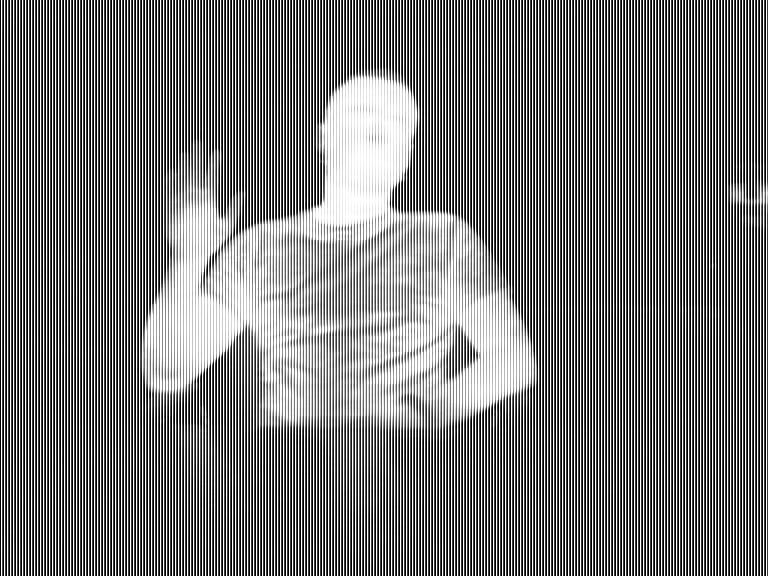
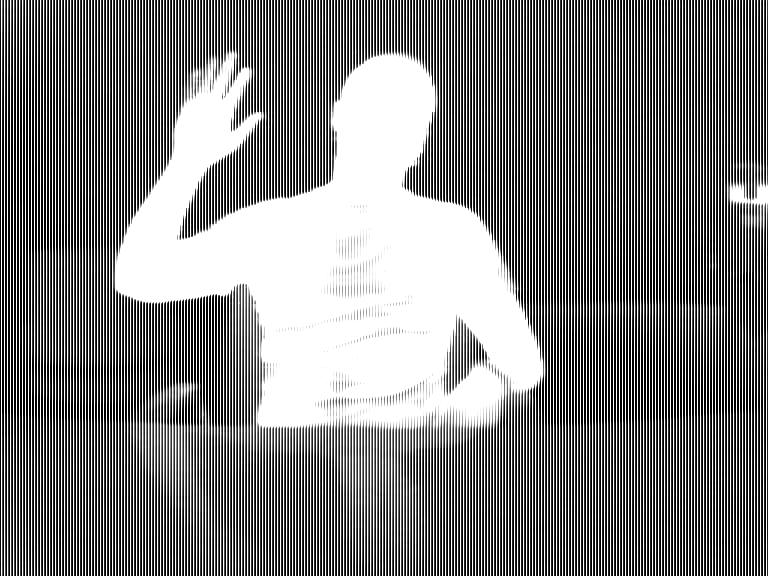
flc input data gathered

diff --git a/image processing/human_seg.py b/image processing/human_seg.py
@@ -15,6 +15,11 @@ def segment_histo(image_path, colour1, colour2):
     cmap_custom = LinearSegmentedColormap.from_list('mycmap', [colour1, colour2])
     final_seg = image_hed[:, :, 0]
 
+    fig, image_original = plt.subplots(figsize=(4, 3))
+    image_original.imshow(image)
+    image_original.set_title('Original Image')
+    image_original.axis('off')
+
     fig, human_seperation = plt.subplots(figsize=(4, 3))
     human_seperation.imshow(final_seg, cmap=cmap_custom)
     human_seperation.set_title('colour deconvolution')
@@ -28,9 +33,9 @@ def segment_histo(image_path, colour1, colour2):
 
     #plotting the histogram and cummulative histogram across each colour channel
     for c, c_color in enumerate(('red', 'green', 'blue')):
-        img_hist, bins = exposure.histogram(final_seg_rgb[..., c])
+        img_hist, bins = exposure.histogram(image[..., c])
         rgb_histo[c].plot(bins, img_hist / img_hist.max())
-        img_cdf, bins = exposure.cumulative_distribution(final_seg_rgb[..., c])
+        img_cdf, bins = exposure.cumulative_distribution(image[..., c])
         rgb_histo[c].plot(bins, img_cdf)
         rgb_histo[c].set_ylabel(c_color) 
 
@@ -40,7 +45,8 @@ def segment_histo(image_path, colour1, colour2):
     #massive precision loss look into conservation
     io.imsave('./images/' + image_path[9:17] + '_seg.jpg', final_seg_rgb)
     
-    print(final_seg.min(), final_seg.max())  
+    print(image.min(), image.max())  
+    print(image.mean())
     return human_seperation, final_seg, rgb_histo
 
 def infra_histogram(image):
@@ -55,6 +61,6 @@ def infra_histogram(image):
 
     return rgb_histo
 
-image_seg = segment_histo('./images/hot/alexrainbow.jpg', 'white', 'green')
+image_seg = segment_histo('./images/hot/siorainbow.jpg', 'white', 'green')
 
 plt.show()

diff --git a/fuzzyLogic/Juzzy/Project/Juzzy_V2_Source/src/radiatorFLC/thermalRadiatorFLC.java b/fuzzyLogic/Juzzy/Project/Juzzy_V2_Source/src/radiatorFLC/thermalRadiatorFLC.java
@@ -68,7 +68,7 @@ public class thermalRadiatorFLC
         radiatorPower.setDiscretisationLevel(50);        
         
         //get some outputs
-        getTemp(10);
+        getTemp(6.4);
         
         //plot some sets, discretizing each input into 100 steps.
         plotMFs("Heating Level Membership Functions", new T1MF_Interface[]{coldTempMF, normalTempMF, hotTempMF}, temperature.getDomain(), 100);
